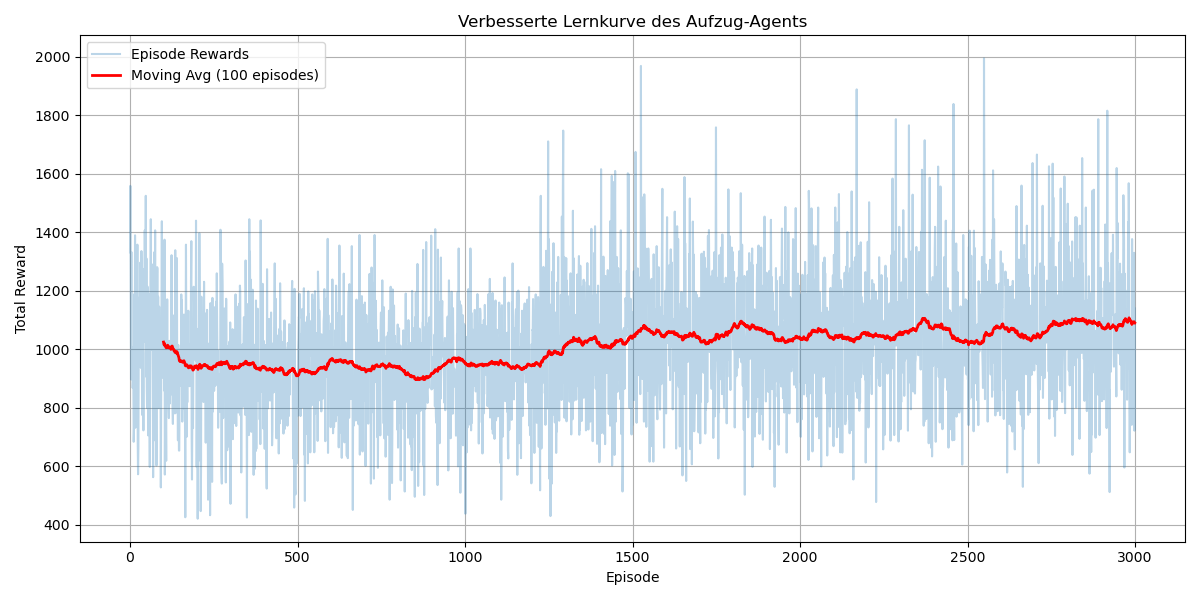
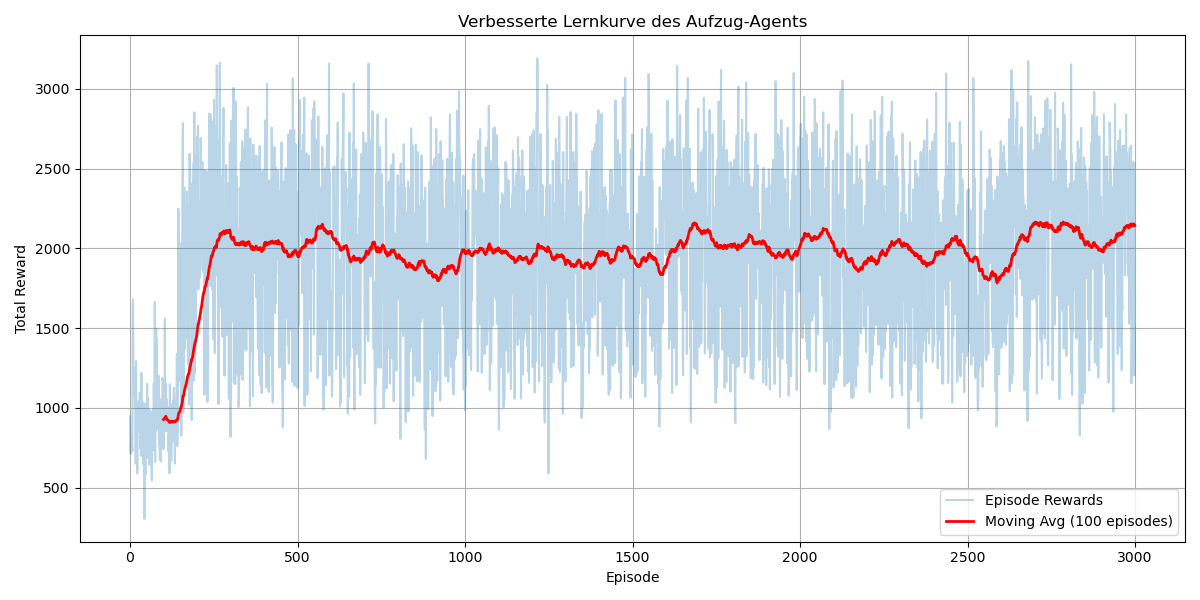
alpha 0.1 gamma 0.9

diff --git a/learning.py b/learning.py
@@ -8,13 +8,26 @@ from Environment.constants import ACTIONS, NUMBER_OF_FLOORS, DIRECTION_UP, DIREC
 
 
 def simplify_state(state):
-    current_floor, move_direction, door_state, cabin_buttons, call_buttons = state
+    """
+    Kompakte Zustandsrepräsentation:
+    - floor, direction, door          : unverändert
+    - any_calls_above / below / here  : booleans, ob es ober‑ bzw. unterhalb oder auf dem aktuellen Stockwerk
+                                         noch offene Rufe (Call‑ oder Cabin‑Buttons) gibt.
+    Dadurch schrumpft der Zustandsraum drastisch, bleibt aber aussagekräftig.
+    """
+    floor, direction, door, cabin_buttons, call_buttons = state
+
+    any_calls_above = any(call_buttons[floor + 1:]) or any(cabin_buttons[floor + 1:])
+    any_calls_below = any(call_buttons[:floor])      or any(cabin_buttons[:floor])
+    on_this_floor   = call_buttons[floor] or cabin_buttons[floor]
+
     return (
-        current_floor,
-        move_direction,
-        door_state,
-        tuple(cabin_buttons),
-        tuple(call_buttons)  # call_buttons ist flache Liste
+        floor,
+        direction,
+        door,
+        any_calls_above,
+        any_calls_below,
+        on_this_floor
     )
 
 
@@ -55,19 +68,13 @@ def choose_action(state, epsilon):
     state_key = simplify_state(state)
     q_values = Q[state_key]
 
-    best_value = -float('inf')
-    best_action = allowed_actions[0]
-
-    for action in allowed_actions:
-        if q_values[action] > best_value:
-            best_value = q_values[action]
-            best_action = action
-
-    return best_action
+    best_value = max(q_values[a] for a in allowed_actions)
+    best_actions = [a for a in allowed_actions if q_values[a] == best_value]
+    return random.choice(best_actions)
 
 
 # Hyperparameter optimiert
-alpha = 0.3  # Höhere Lernrate
+alpha = 0.1  # Höhere Lernrate
 gamma = 0.9  # Weniger Fokus auf langfristige Belohnung
 epsilon = 0.3  # Mehr Exploration
 episodes = 3000
@@ -95,7 +102,7 @@ for ep in range(episodes):
         next_state_key = simplify_state(next_state)
 
         current_q = Q[state_key][action]
-        next_max = max(Q[next_state_key].values()) if next_state_key in Q else 0
+        next_max = max(Q[next_state_key].values())
         new_q = current_q + alpha * (reward + gamma * next_max - current_q)
 
         Q[state_key][action] = new_q
